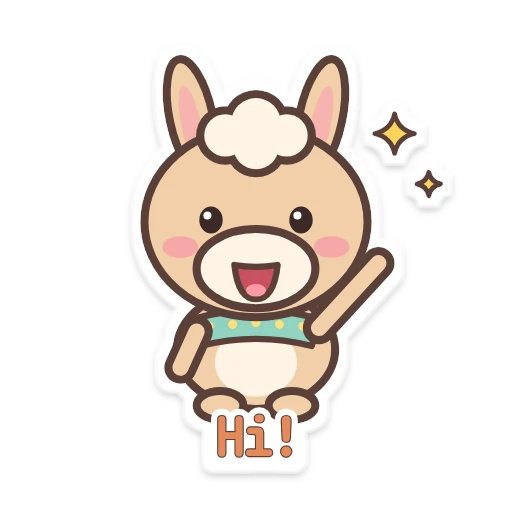
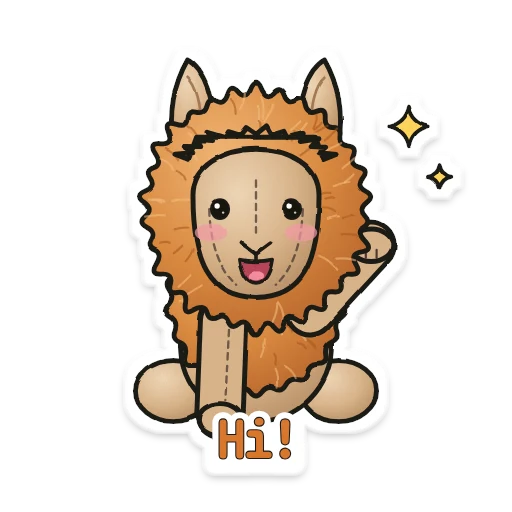
Draw the stickers as the owner's plush friends; let releases run by hand
The built-in stickers are now five plush characters in a marker-drawing
style (ink outline, soft shading, stitch lines, bead eyes), from the
owner's own toys: Lolo the llama, Bell the cream sheep with a green
ribbon and bell, Curly the white sheep in a green T-shirt, Sunny the
leopard, and Snow, a white dog. 28 stickers, about 900 KB.
tools/stickers/preview.jpg shows them all.

The Release workflow can also be started from the Actions tab with a
version number; it then creates the tag itself.

Claude-Session: https://claude.ai/code/session_011casVGjZG3hmxg1QdverDq

Changed region(s): [[0.25, 0.0938, 0.7812, 0.9062], [0.7188, 0.1875, 0.8438, 0.3438], [0.8125, 0.3125, 0.875, 0.4375]]

diff --git a/README.md b/README.md
@@ -122,7 +122,7 @@ Swipe up to get a normal keyboard drawn the same way: flat keys, one font, line 
 
 How sensitive swipes are (shortest swipe, flick speed, long swipe, straightness) is adjustable, with an explanation for each slider.
 
-### 😀 Emoji, 📋 clipboard and GIFs
+### 😀 Emoji, 🧸 stickers, 📋 clipboard and GIFs
 
 <p>
 <img src="docs/screenshots/mini_emoji.png" width="49%" alt="Emoji panel">
@@ -130,6 +130,7 @@ How sensitive swipes are (shortest swipe, flick speed, long swipe, straightness)
 </p>
 
 - **Emoji panel:** every Unicode emoji, your most-used first, with tabs to jump between groups. Open it from the zoom (☺) or by holding the comma.
+- **Stickers:** five plush friends, drawn as stickers: Lolo the llama, Bell and Curly the sheep, Sunny the leopard and Snow the dog, in 28 moods. Tap the sticker tab in the emoji panel, then tap one to send it. Messengers that take images from keyboards (WhatsApp, Messenger, Telegram, Signal…) get it right in the chat; other apps open the share sheet. Tap **+** to turn your own photos into stickers (no storage permission: Android's photo picker hands over just the one image) and hold one of yours to delete it.
 - **Clipboard:** your last 30 copies (kept for 7 days) as cards. Tap to paste, hold to delete. Anything copied from a password or private field is skipped.
 - **GIF search** with [KLIPY](https://partner.klipy.com): search, tap and the GIF is sent as a real animated GIF (apps that can't take GIFs get the link). It needs your own free KLIPY key, entered in the app. Don't want GIFs? Turn off **Show GIFs** and the GIF and clipboard tabs disappear from the emoji panel (mini mode still opens the clipboard from its symbol row).
 
@@ -208,7 +209,7 @@ The word list is the top 45,000 English words from [hermitdave/FrequencyWords](h
 Two GitHub Actions workflows live in `.github/workflows/`:
 
 - **Build** (`build.yml`) builds the app on every push and pull request. The debug APK is attached to each run as an artifact.
-- **Release** (`release.yml`) runs when a version tag is pushed. It builds a signed release APK, attaches it (plus checksums) to a new GitHub release with generated release notes, and that release becomes the download link above.
+- **Release** (`release.yml`) runs when a version tag is pushed, or from the Actions tab (**Run workflow**, with a version such as `0.1.0`), which creates the tag itself. It builds a signed release APK, attaches it (plus checksums) to a new GitHub release with generated release notes, and that release becomes the download link above.
 
 ```sh
 git tag v1.0.0
